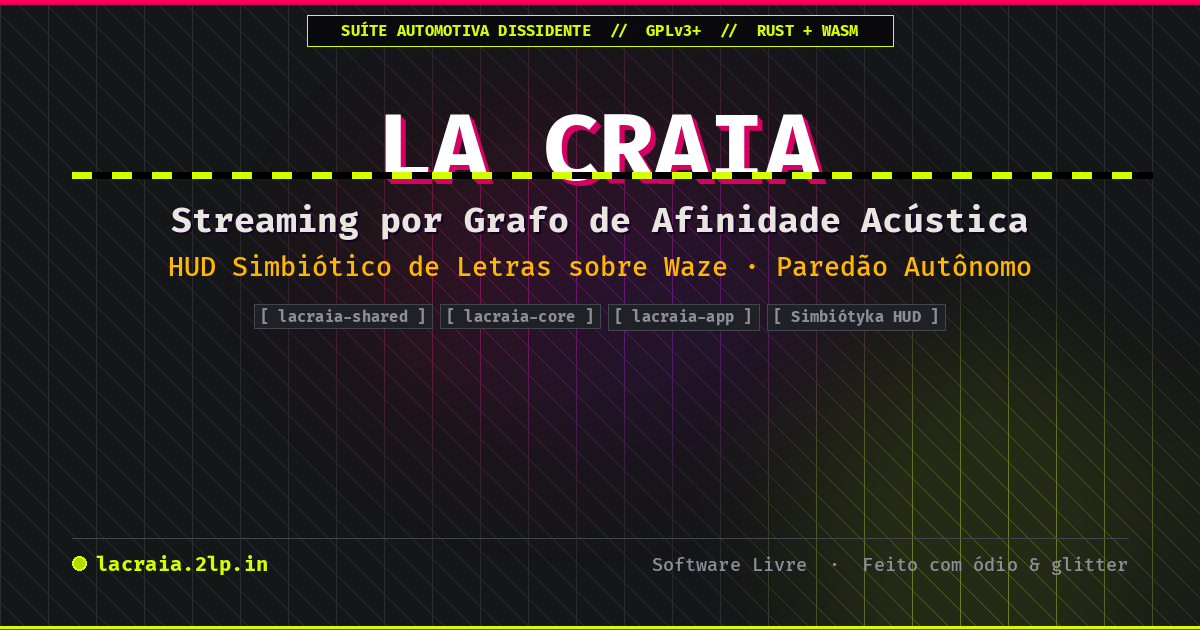
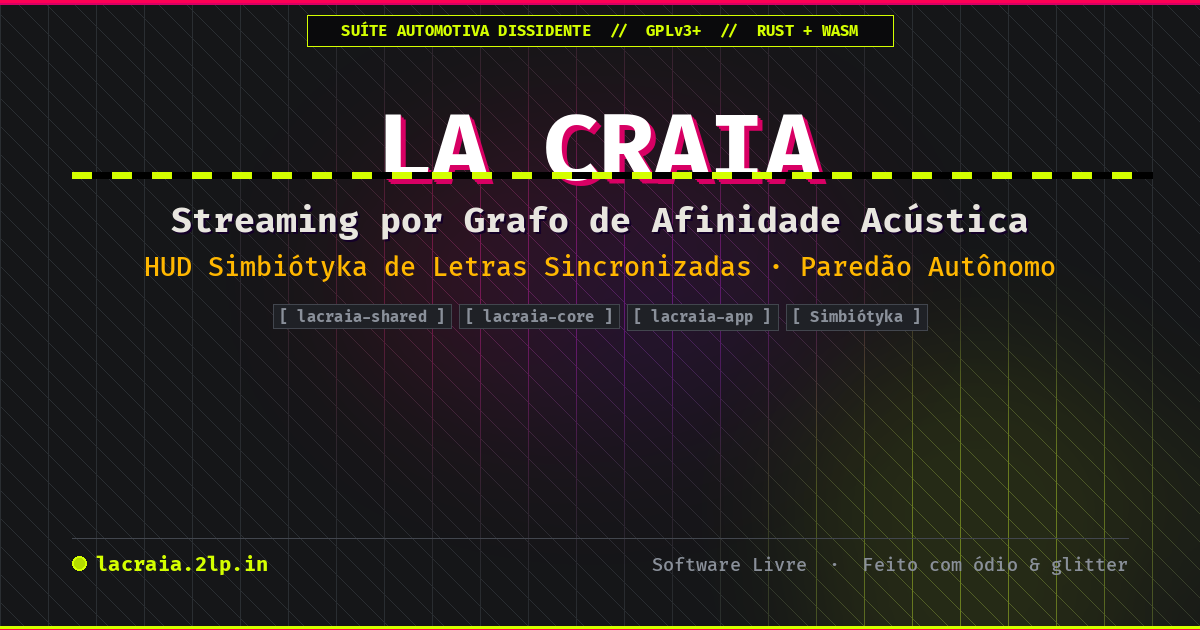
fix(site): sanitize open graph and twitter card metadata and headers (fixes #6)

Changed region(s): [[0.1233, 0.3921, 0.8942, 0.4524], [0.2158, 0.4825, 0.8017, 0.5429]]

diff --git a/site/index.html b/site/index.html
@@ -1,31 +1,39 @@
 <!DOCTYPE html>
-<html lang="pt-BR">
+<html lang="pt-BR" prefix="og: https://ogp.me/ns#">
 <head>
   <meta charset="UTF-8">
   <meta name="viewport" content="width=device-width, initial-scale=1.0">
   <title>LA CRAIA :: Caderno de Montagem do Paredão &amp; Zine de Campo</title>
-  <meta name="description" content="Suíte automotiva dissidente: streaming por grafo de afinidade acústica, paredão offline e HUD simbiótico de letras sincronizadas sobre o Waze. GPLv3+, Rust + WASM.">
+  <meta name="description" content="Suíte automotiva dissidente: streaming por grafo de afinidade acústica, paredão offline e Simbiótyka HUD de letras sincronizadas sobre navegação GPS. GPLv3+, Rust + WASM.">
+
+  <!-- Schema.org / WhatsApp fallback -->
+  <meta itemprop="name" content="LA CRAIA — Suíte Automotiva Dissidente">
+  <meta itemprop="description" content="Streaming por grafo de afinidade acústica, pré-cache preditivo e Simbiótyka HUD de letras sincronizadas milissegundo a milissegundo sobre navegação GPS e cockpit.">
+  <meta itemprop="image" content="https://lacraia.2lp.in/assets/og_preview.png">
+  <link rel="image_src" href="https://lacraia.2lp.in/assets/og_preview.png">
 
   <!-- Open Graph -->
   <meta property="og:type"              content="website">
   <meta property="og:url"               content="https://lacraia.2lp.in/">
   <meta property="og:site_name"         content="La Craia">
-  <meta property="og:title"             content="LA CRAIA — Suíte Automotiva Dissidente: Paredão, Pipa &amp; Simbiótyka HUD">
-  <meta property="og:description"       content="Streaming por grafo de afinidade acústica, pré-cache preditivo e HUD de letras sincronizadas milissegundo-a-milissegundo sobre o Waze. Software Livre, GPLv3+.">
+  <meta property="og:title"             content="LA CRAIA — Suíte Automotiva Dissidente: Paredão, Pipa e Simbiótyka HUD">
+  <meta property="og:description"       content="Streaming por grafo de afinidade acústica, pré-cache preditivo e Simbiótyka HUD de letras sincronizadas milissegundo a milissegundo sobre navegação GPS e cockpit. Software Livre, GPLv3+.">
   <meta property="og:image"             content="https://lacraia.2lp.in/assets/og_preview.png">
   <meta property="og:image:secure_url"  content="https://lacraia.2lp.in/assets/og_preview.png">
   <meta property="og:image:type"        content="image/png">
   <meta property="og:image:width"       content="1200">
   <meta property="og:image:height"      content="630">
-  <meta property="og:image:alt"         content="LA CRAIA — Streaming por Grafo de Afinidade Acústica · HUD Simbiótico de Letras sobre Waze · Paredão Autônomo">
+  <meta property="og:image:alt"         content="LA CRAIA — Streaming por Grafo de Afinidade Acústica · Simbiótyka HUD de Letras · Paredão Autônomo">
 
   <!-- Twitter / X Card -->
   <meta name="twitter:card"             content="summary_large_image">
+  <meta name="twitter:domain"           content="lacraia.2lp.in">
   <meta name="twitter:url"              content="https://lacraia.2lp.in/">
-  <meta name="twitter:title"            content="LA CRAIA — Suíte Automotiva Dissidente: Paredão, Pipa &amp; Simbiótyka HUD">
-  <meta name="twitter:description"      content="Streaming por grafo de afinidade acústica, pré-cache preditivo e HUD de letras sincronizadas milissegundo-a-milissegundo sobre o Waze. Software Livre, GPLv3+.">
+  <meta name="twitter:title"            content="LA CRAIA — Suíte Automotiva Dissidente: Paredão, Pipa e Simbiótyka HUD">
+  <meta name="twitter:description"      content="Streaming por grafo de afinidade acústica, pré-cache preditivo e Simbiótyka HUD de letras sincronizadas milissegundo a milissegundo sobre navegação GPS e cockpit. Software Livre, GPLv3+.">
   <meta name="twitter:image"            content="https://lacraia.2lp.in/assets/og_preview.png">
-  <meta name="twitter:image:alt"        content="LA CRAIA — Streaming por Grafo de Afinidade Acústica · HUD Simbiótico de Letras sobre Waze · Paredão Autônomo">
+  <meta name="twitter:image:src"        content="https://lacraia.2lp.in/assets/og_preview.png">
+  <meta name="twitter:image:alt"        content="LA CRAIA — Streaming por Grafo de Afinidade Acústica · Simbiótyka HUD de Letras · Paredão Autônomo">
 
   <link rel="icon" type="image/svg+xml" href="favicon.svg">
   <link rel="alternate icon" type="image/svg+xml" href="assets/icon.svg">

diff --git a/scripts/generate_og_image.py b/scripts/generate_og_image.py
@@ -160,7 +160,7 @@ def create_og_image(output_path: str = "site/assets/og_preview.png") -> None:
     # 6. TITLE BLOCK (safe zone body): two lines centered
     # ------------------------------------------------------------------
     t1 = "Streaming por Grafo de Afinidade Acústica"
-    t2 = "HUD Simbiótico de Letras sobre Waze · Paredão Autônomo"
+    t2 = "HUD Simbiótyka de Letras Sincronizadas · Paredão Autônomo"
 
     t1_y = bar_y + 28
     draw_centered_text(draw, t1_y, t1, f_title, fill=C_PAPEL,
@@ -172,7 +172,7 @@ def create_og_image(output_path: str = "site/assets/og_preview.png") -> None:
     # ------------------------------------------------------------------
     # 7. METAMERY INDICATOR: 4 segment tags as visual decoration
     # ------------------------------------------------------------------
-    tags = ["lacraia-shared", "lacraia-core", "lacraia-app", "Simbiótyka HUD"]
+    tags = ["lacraia-shared", "lacraia-core", "lacraia-app", "Simbiótyka"]
     tag_total_w = sum(
         draw.textbbox((0, 0), f"[ {t} ]", font=f_badge)[2] for t in tags
     ) + (len(tags) - 1) * 20

diff --git a/CHANGELOG.md b/CHANGELOG.md
@@ -16,6 +16,9 @@
   - (tooling) implement automated demo launcher script (closes #20)
   - (server) auto‑increment port if occupied (#12)
 
+### Bug Fixes
+  - (site) sanitize open graph and twitter card metadata and headers (fixes #6)
+
 ## Previous Releases
 
 ### [v0.1.0] - La Craia v0.1.0 - Automotive Audio & HUD MVP
